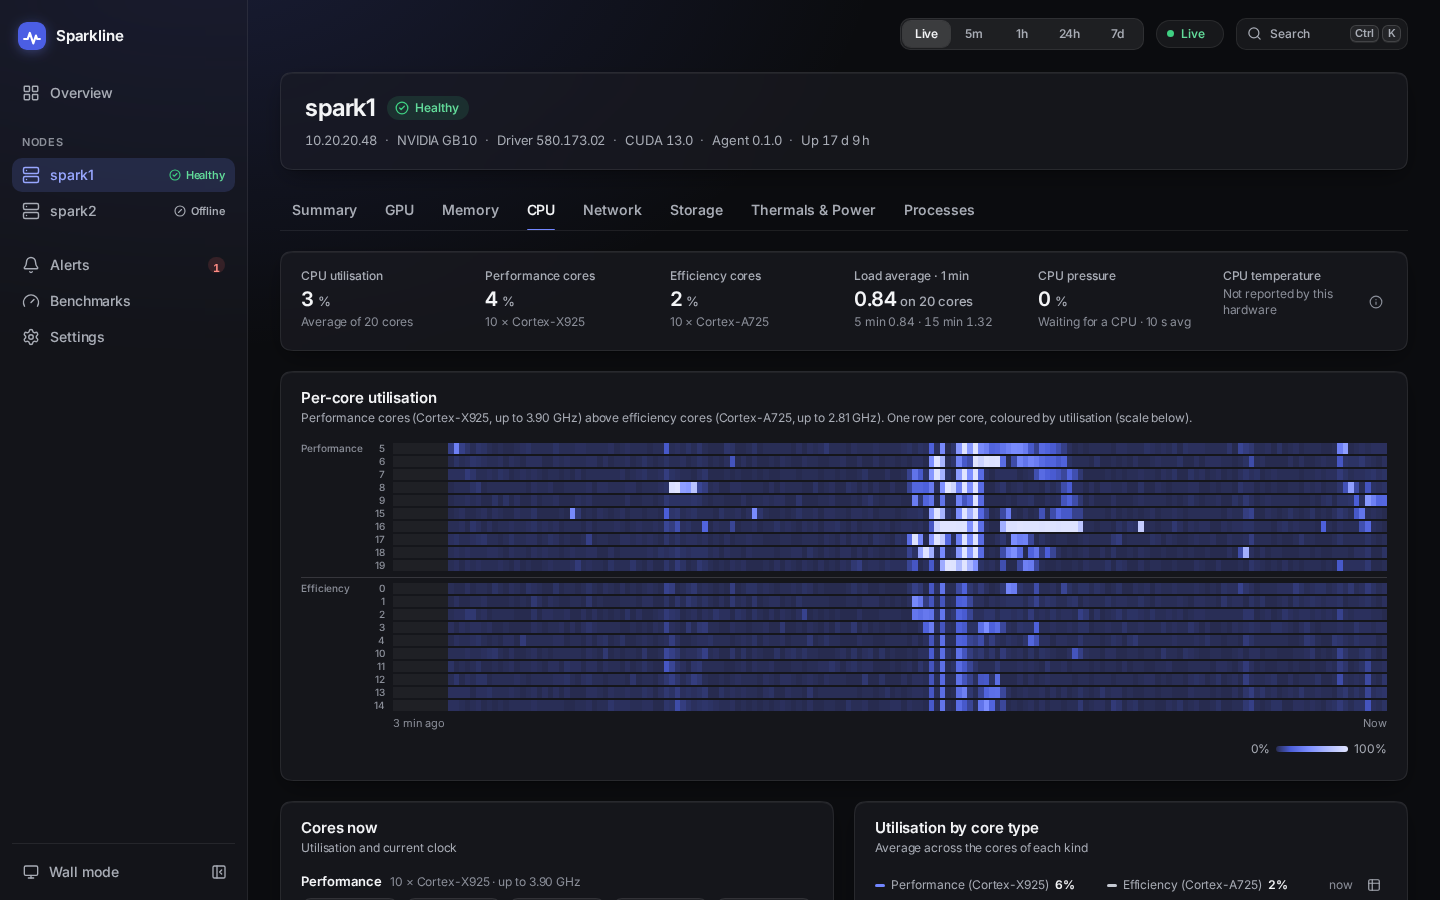
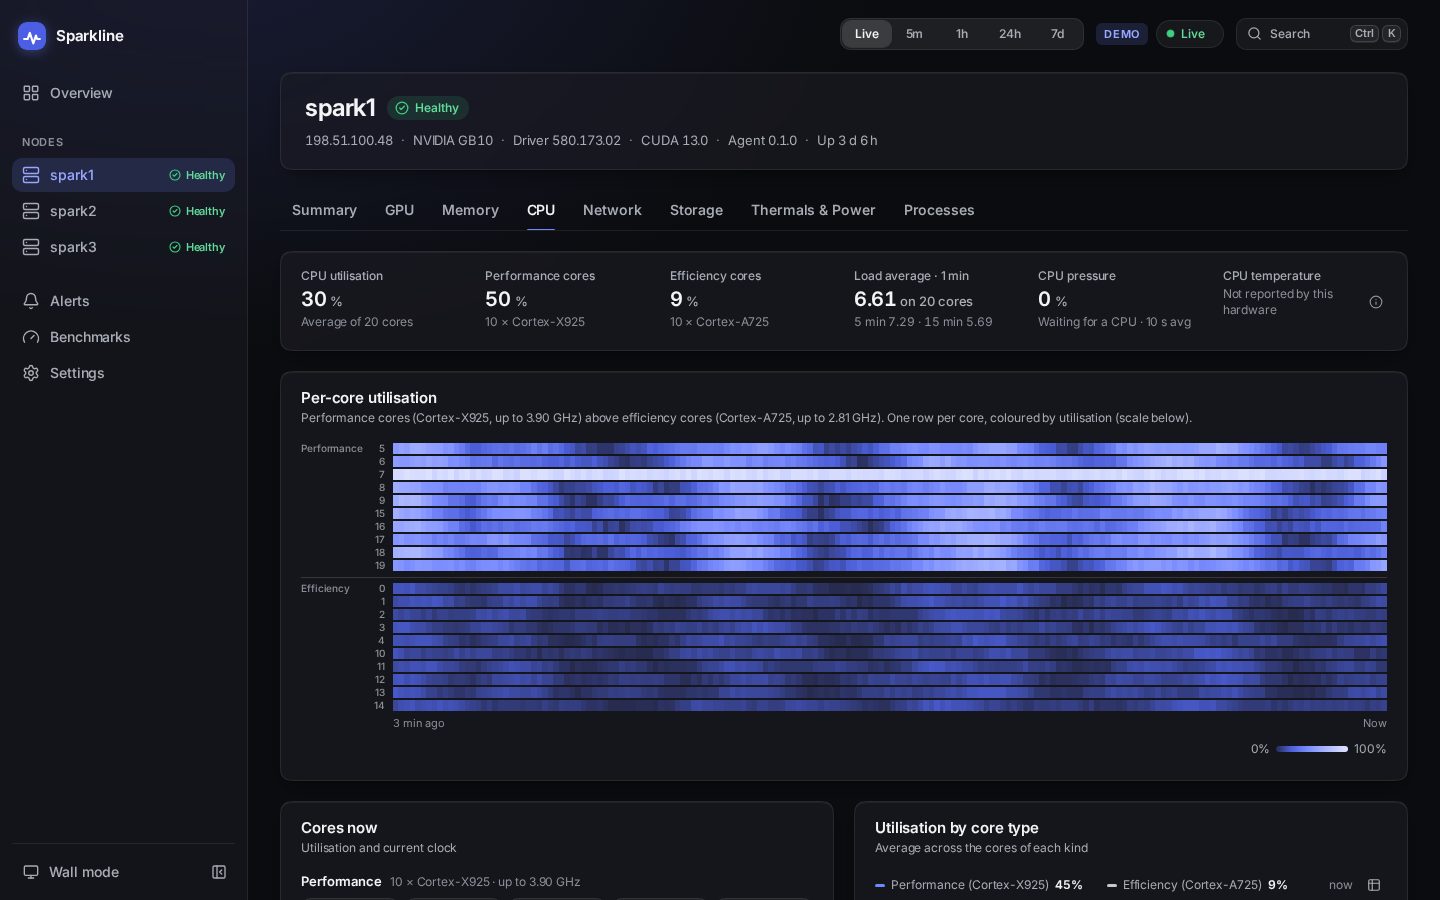
docs(readme): regenerate node screenshots from the demo
The network, memory, CPU, offline and GPU screenshots showed real
addresses in the node header. All five are now taken from --demo at the
same size, page and theme.

diff --git a/README.md b/README.md
@@ -126,8 +126,8 @@ The console picks up the agent token from the agent's config on the same host.
 | ![A tool-calling evaluation running: the score so far, the scenario board and the latest verdicts](docs/screenshots/bench-tool-eval-dark.png) | ![A finished tool-calling evaluation: score, rating, safety gate and share graded, light theme](docs/screenshots/bench-tool-eval-score-light.png) |
 | ![A node whose agent is unreachable: cause, fix and retry](docs/screenshots/offline-state-dark.png) | ![Wall mode at 1920×1080](docs/screenshots/wall-dark.png) |
 
-The memory, CPU, network and offline screenshots come from a real two-node cluster (taken while spark2's agent
-was stopped). The others come from `--demo`, which can show load, a thermal episode and benchmark runs on demand.
+Every screenshot comes from `--demo`, which can show load, a thermal episode, an offline node and benchmark runs
+on demand.
 The concurrency-stream and tool-calling screenshots show its simulated runs: no model was involved.
 
 ## Features
